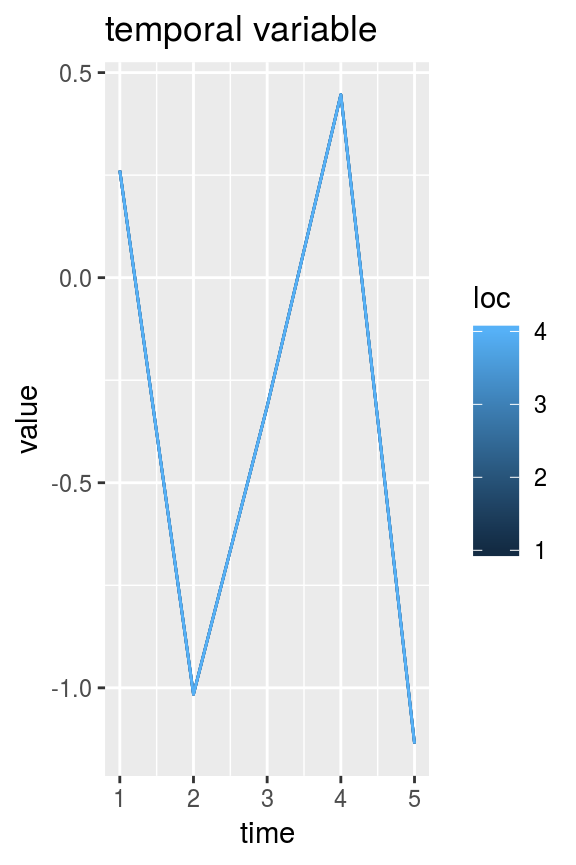
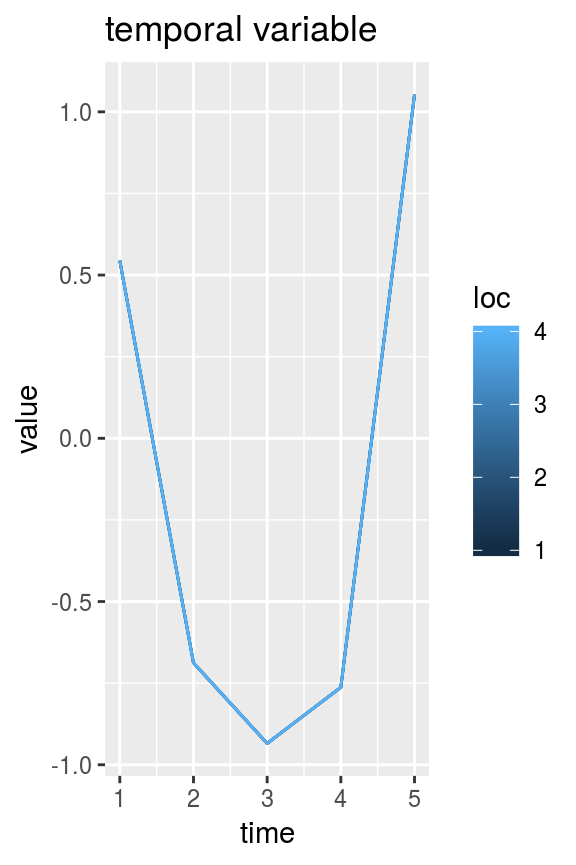
removed example function documentation

diff --git a/docs/articles/swotlists.html b/docs/articles/swotlists.html
@@ -135,15 +135,15 @@ space_mat &lt;-<span class="st"> </span><span class="kw"><a href="../reference/s
 <div class="sourceCode"><pre class="sourceCode r"><code class="sourceCode r">tidydf1 &lt;-<span class="st"> </span><span class="kw"><a href="../reference/swot_tidy.html">swot_tidy</a></span>(list1)
 <span class="kw">str</span>(tidydf1)
 <span class="co">#&gt; 'data.frame':    20 obs. of  4 variables:</span>
-<span class="co">#&gt;  $ var1: num  -0.132 0.827 -0.687 -1.542 -0.231 ...</span>
-<span class="co">#&gt;  $ var2: num  0.539 1.468 0.385 -1.618 0.236 ...</span>
+<span class="co">#&gt;  $ var1: num  0.353 -0.811 0.16 0.941 0.26 ...</span>
+<span class="co">#&gt;  $ var2: num  -0.2893 -0.6195 0.1755 1.2116 -0.0138 ...</span>
 <span class="co">#&gt;  $ time: int  1 1 1 1 2 2 2 2 3 3 ...</span>
 <span class="co">#&gt;  $ loc : int  1 2 3 4 1 2 3 4 1 2 ...</span></code></pre></div>
 <p>To go back to the original swotlist for, use <code>swot_untidy</code>.</p>
 <div class="sourceCode"><pre class="sourceCode r"><code class="sourceCode r"><span class="kw">str</span>(<span class="kw"><a href="../reference/swot_untidy.html">swot_untidy</a></span>(tidydf1))
 <span class="co">#&gt; List of 2</span>
-<span class="co">#&gt;  $ var1: num [1:4, 1:5] -0.132 0.827 -0.687 -1.542 -0.231 ...</span>
-<span class="co">#&gt;  $ var2: num [1:4, 1:5] 0.539 1.468 0.385 -1.618 0.236 ...</span></code></pre></div>
+<span class="co">#&gt;  $ var1: num [1:4, 1:5] 0.353 -0.811 0.16 0.941 0.26 ...</span>
+<span class="co">#&gt;  $ var2: num [1:4, 1:5] -0.2893 -0.6195 0.1755 1.2116 -0.0138 ...</span></code></pre></div>
 <p><code>swot_tidy</code> is used under the hood for many of <strong>swotr</strong>’s plotting functions (and some other functions), since ggplot2 takes a <code>data.frame</code> as input.</p>
 </div>
 <div id="netcdfs" class="section level2">

diff --git a/docs/reference/index.html b/docs/reference/index.html
@@ -134,12 +134,6 @@
       </tr><tr>
         
         <td>
-          <p><code><a href="hello.html">hello()</a></code> </p>
-        </td>
-        <td><p>Hello, World!</p></td>
-      </tr><tr>
-        
-        <td>
           <p><code><a href="nc_list.html">nc_list()</a></code> </p>
         </td>
         <td><p>Read a netcdf file to a list.</p></td>
